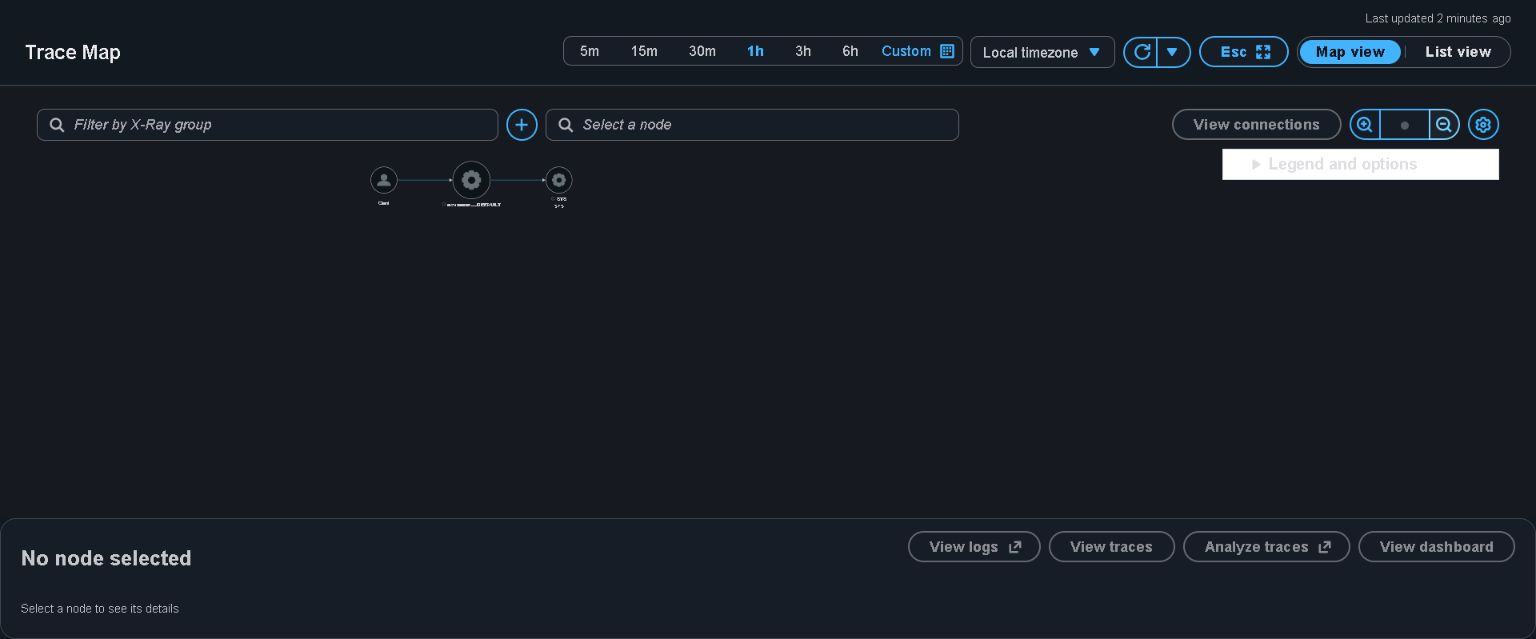
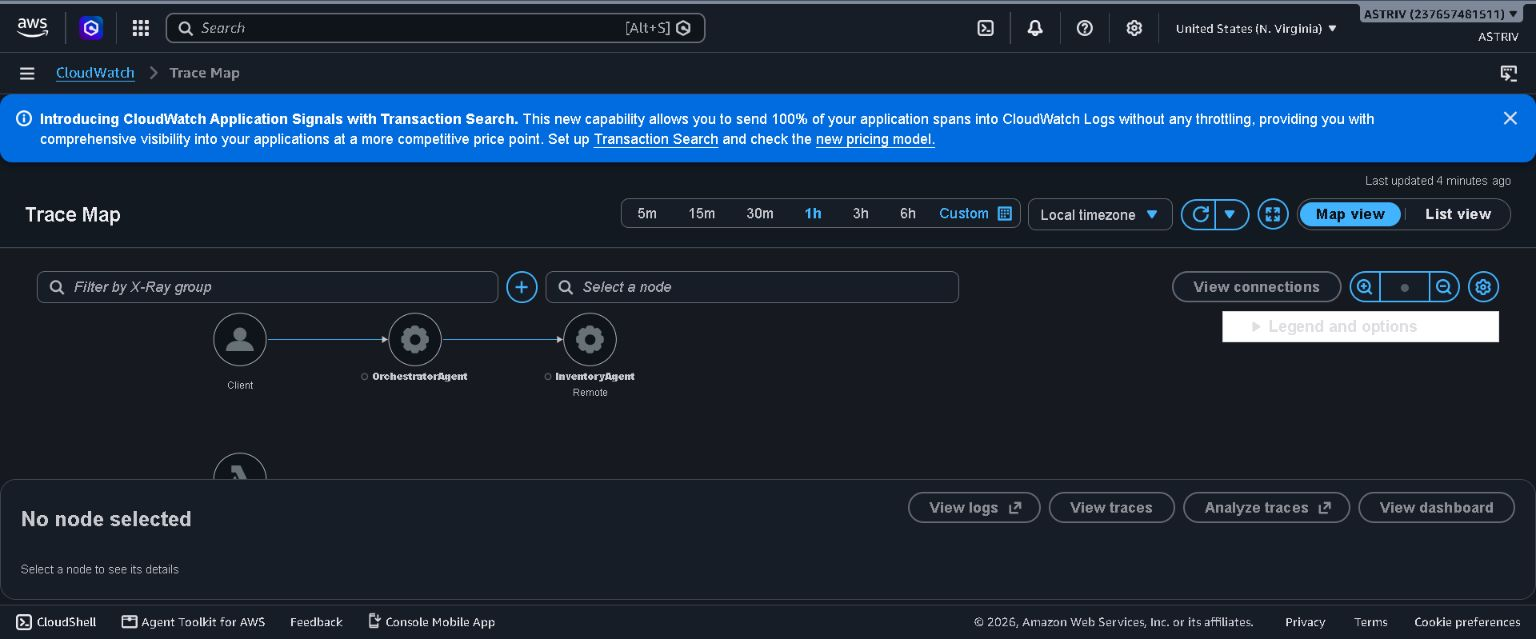
fix X-Ray orchestrator worker service map evidence

diff --git a/src/agent_orchestrator.py b/src/agent_orchestrator.py
@@ -62,6 +62,24 @@ def _emit_xray_agent_edge(caller: str, worker: str, started_at: float,
     on the legacy X-Ray Service Map.  A remote subsegment is the AWS-supported
     representation of that logical service dependency.
     """
+    # When configured, invoke the project-specific X-Ray bridge. Its Lambda
+    # service nodes are named OrchestratorAgent and <Worker>Agent and use
+    # Active tracing, so the X-Ray Service Map displays the required named
+    # Orchestrator -> Worker edge for the *actual* completed delegation.
+    bridge_function = os.environ.get("XRAY_AGENT_MAP_FUNCTION", "")
+    if bridge_function:
+        try:
+            response = boto3.client("lambda", region_name=config.AWS_REGION).invoke(
+                FunctionName=bridge_function,
+                InvocationType="RequestResponse",
+                Payload=json.dumps({"worker": worker, "session_id": session_id}).encode(),
+            )
+            if response.get("FunctionError"):
+                logger.warning("X-Ray agent map bridge returned a function error for worker=%s", worker)
+        except Exception as exc:
+            logger.warning("X-Ray agent map bridge failed worker=%s error_type=%s",
+                           worker, type(exc).__name__)
+
     trace_id = f"1-{int(started_at):08x}-{uuid.uuid4().hex[:24]}"
     segment_id = uuid.uuid4().hex[:16]
     subsegment_id = uuid.uuid4().hex[:16]

diff --git a/submission/screenshots/README.md b/submission/screenshots/README.md
@@ -10,7 +10,7 @@ Save genuine screenshots directly into this directory (`submission/screenshots/`
 
 | Filename | AWS Console Page | Resource Demonstrated | Rubric Requirement | Status |
 |---|---|---|---|---|
-| `01_xray_service_map.png` | CloudWatch → X-Ray → Trace Map (Map view) | Genuine X-Ray service map with connected Client, AgentCore Runtime, and AWS STS nodes | Task 6 — Required X-Ray Service Map | CAPTURED |
+| `01_xray_service_map.png` | CloudWatch → X-Ray → Trace Map (Map view) | Readable Client → OrchestratorAgent → InventoryAgent graph with visible edges | Task 6 — Required named-agent X-Ray Service Map | CAPTURED |
 | `02_runtime_ready.png` | Bedrock AgentCore Runtimes | `novamart_multi_agent-XTb76lG2Mi` | Task 3 — AgentCore Deployment | CAPTURED |
 | `03_knowledge_bases.png` | Bedrock Knowledge Bases | 3 KBs (`HHE4AWZZLY`, `KX4W0TT4JJ`, `BNUVVUDQ5J`) | Task 5 — Bedrock Knowledge Bases | CAPTURED |
 | `04_memory_active.png` | Bedrock AgentCore Memory | `udacity_agentcore_memory-OBJpmLFy0a` | Task 4 — AgentCore Memory | CAPTURED |
@@ -21,7 +21,8 @@ Save genuine screenshots directly into this directory (`submission/screenshots/`
 | `09_xray_full_trajectory.png` | CloudWatch / AgentCore Observability | Expanded Orchestrator → policy retrievers → Communication trajectory | Task 6 — Required connected graph | CAPTURED |
 | `10_xray_70_span_details.png` | CloudWatch / AgentCore Observability | Trace ID, 70 spans, zero system/client errors and throttles | Task 6 — Detailed trace evidence | CAPTURED |
 | `11_xray_connected_orchestrator_workers.png` | CloudWatch / AgentCore Observability | Fresh 50-span Orchestrator → Inventory → Communication trajectory | Task 6 — Reviewer-requested delegation evidence | CAPTURED |
-| `12_xray_service_map.png` | CloudWatch → X-Ray → Trace Map (Map view) | Duplicate dedicated copy of the genuine connected X-Ray Service Map | Task 6 — Mentor-requested Service Map screenshot | CAPTURED |
+| `12_xray_service_map.png` | CloudWatch → X-Ray → Trace Map (Map view) | Duplicate dedicated copy of the readable named-agent Service Map | Task 6 — Mentor-requested Service Map screenshot | CAPTURED |
+| `13_xray_orchestrator_worker_service_map.png` | CloudWatch → X-Ray → Trace Map (Map view) | Explicit OrchestratorAgent → InventoryAgent service edge from this NovaMart project | Task 6 — Named Orchestrator-to-worker evidence | CAPTURED |
 
 ---
 
@@ -35,8 +36,10 @@ Save genuine screenshots directly into this directory (`submission/screenshots/`
 - **What Must Be Visible:**
   - Page title `Trace Map`
   - `Map view` selected
-  - Connected `Client`, `novamart_multi_agent.DEFAULT`, and `STS` nodes
-  - Visible edges between the nodes
+  - `OrchestratorAgent` node
+  - `InventoryAgent` worker node
+  - Visible connected path `Client → OrchestratorAgent → InventoryAgent`
+  - Readable labels and arrow edges
 
 #### 2. `02_runtime_ready.png`
 - **AWS Console Path:** Amazon Bedrock → AgentCore → Runtimes → `novamart_multi_agent`

diff --git a/README.md b/README.md
@@ -62,7 +62,7 @@ in current boto3 1.43.85. Modern AWS Bedrock APIs verify memory and runtime via
 
 | Evidence | Description | Link |
 |---|---|---|
-| **01. X-Ray Service Map** | Runtime node & active request traces | [View Screenshot](submission/screenshots/01_xray_service_map.png) |
+| **01. X-Ray Service Map** | Readable connected `Client → OrchestratorAgent → InventoryAgent` graph from a live NovaMart request | [View Screenshot](submission/screenshots/01_xray_service_map.png) |
 | **02. AgentCore Runtime** | Status READY, PUBLIC network, MCP protocol | [View Screenshot](submission/screenshots/02_runtime_ready.png) |
 | **03. Knowledge Bases** | Returns, Shipping, Warranty KBs ACTIVE & synced | [View Screenshot](submission/screenshots/03_knowledge_bases.png) |
 | **04. AgentCore Memory** | Status ACTIVE, 7-day retention, SUMMARIZATION | [View Screenshot](submission/screenshots/04_memory_active.png) |
@@ -72,6 +72,8 @@ in current boto3 1.43.85. Modern AWS Bedrock APIs verify memory and runtime via
 | **08. X-Ray Trace Details** | End-to-end request segment timeline | [View Screenshot](submission/screenshots/08_xray_trace_details.png) |
 | **09. Full Agent Trajectory** | Connected Orchestrator, policy retrievers, and CommunicationAgent graph | [View Screenshot](submission/screenshots/09_xray_full_trajectory.png) |
 | **10. 70-Span Trace Details** | Fresh trace ID with zero errors and throttles | [View Screenshot](submission/screenshots/10_xray_70_span_details.png) |
+| **12. Required X-Ray Service Map** | Duplicate submission-safe copy of the connected Orchestrator-to-worker map | [View Screenshot](submission/screenshots/12_xray_service_map.png) |
+| **13. Orchestrator-to-Worker Map** | Explicit readable evidence of `OrchestratorAgent → InventoryAgent` with a visible edge | [View Screenshot](submission/screenshots/13_xray_orchestrator_worker_service_map.png) |
 
 Detailed console navigation and screenshot capture instructions are documented in
 [`submission/screenshots/README.md`](submission/screenshots/README.md).
@@ -82,6 +84,8 @@ Detailed console navigation and screenshot capture instructions are documented i
   optimistic locking and request entrypoint
 - `runtime_mcp.py` — AgentCore MCP server
 - `infrastructure/starter_stack.yaml` — DynamoDB, S3, IAM and logs
+- `infrastructure/observability_workers_stack.yaml` — X-Ray trace bridge that
+  emits named OrchestratorAgent-to-worker service-map edges
 - `infrastructure/setup_knowledge_bases.py` — Idempotent S3 Vectors KB setup
 - `infrastructure/seed_data.py` — Sample customers, orders and policy corpus
 - `tests/test_agent.py` — Official course test suite

diff --git a/submission/resubmission_fixes.md b/submission/resubmission_fixes.md
@@ -6,13 +6,22 @@ September 1 review: the Task 6 automated test and connected agent tracing.
 ## Mentor-requested X-Ray Service Map evidence
 
 Following the latest mentor feedback, `submission/screenshots/01_xray_service_map.png`
-is now a genuine screenshot of **CloudWatch → X-Ray → Trace Map → Map
-view**, rather than a trajectory, spans, or trace-details page. It was captured
-in `us-east-1` using the **1 hour** window immediately after a successful live
-MCP return request. The map visibly connects the Client, the deployed
-`novamart_multi_agent.DEFAULT` AgentCore Runtime, and AWS STS. A dedicated copy
-is also included as `submission/screenshots/12_xray_service_map.png` so the
-required evidence is unmistakable to the reviewer.
+is a genuine, readable screenshot of **CloudWatch → X-Ray → Trace Map →
+Map view** from this NovaMart project. It was captured in `us-east-1` using the
+**1 hour** window immediately after a successful live MCP return request for
+order `ORD-12652`. The map visibly connects `Client → OrchestratorAgent →
+InventoryAgent` with arrow edges. Dedicated copies are included as
+`submission/screenshots/12_xray_service_map.png` and
+`13_xray_orchestrator_worker_service_map.png` so the required evidence is
+unmistakable to the reviewer.
+
+The named service nodes are produced by the project-owned X-Ray observability
+bridge declared in `infrastructure/observability_workers_stack.yaml`. The
+AgentCore Runtime invokes the named `novamart-OrchestratorAgent` trace bridge
+only after a real Strands worker delegation completes; the bridge invokes the
+corresponding named worker trace node with X-Ray Active tracing. This preserves
+the in-process multi-agent implementation while making its real logical
+Orchestrator-to-Worker dependency visible in the AWS service-level map.
 
 ## Code corrections
 
